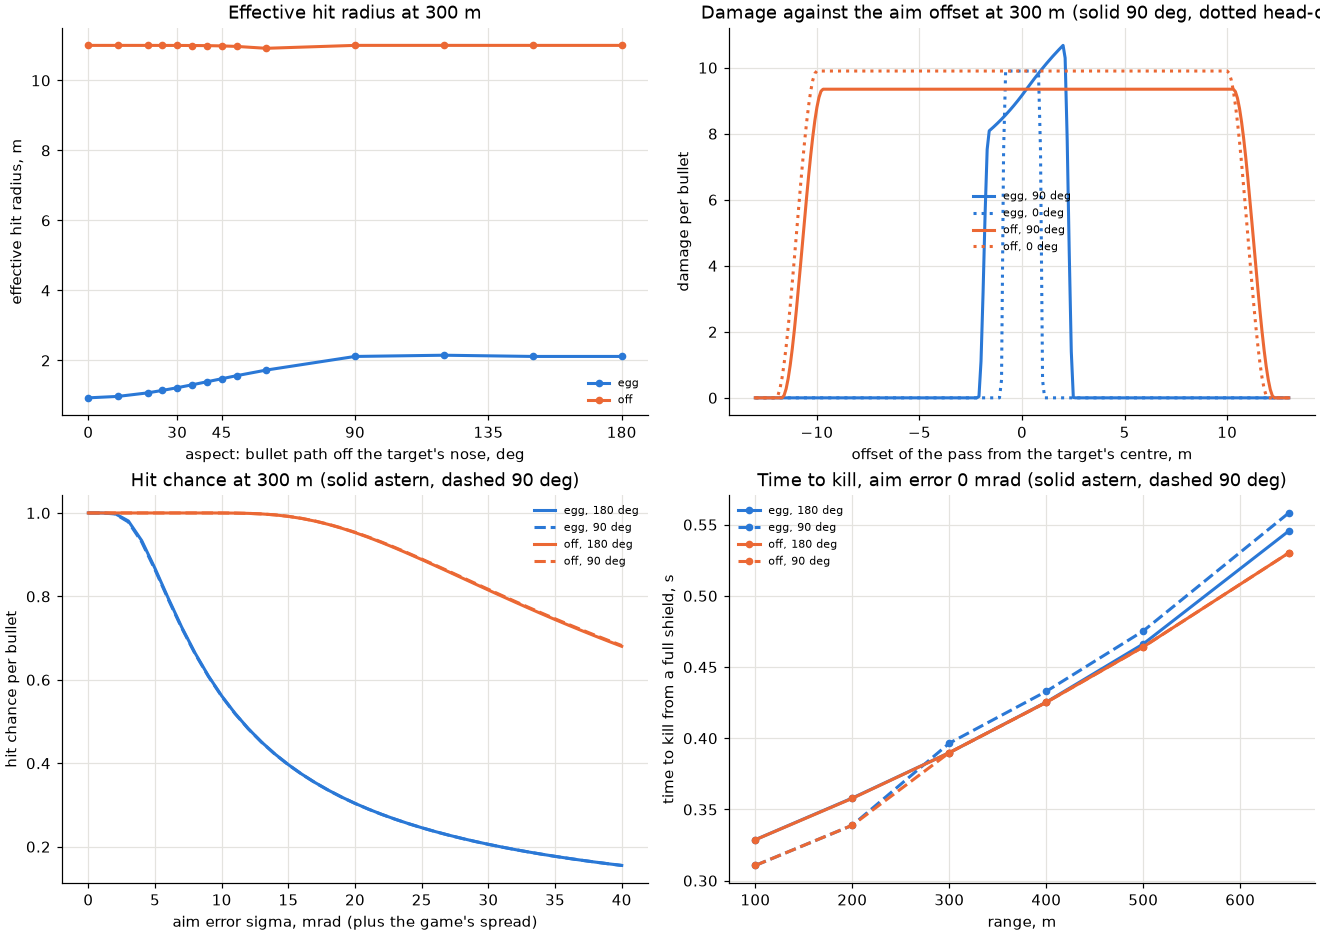
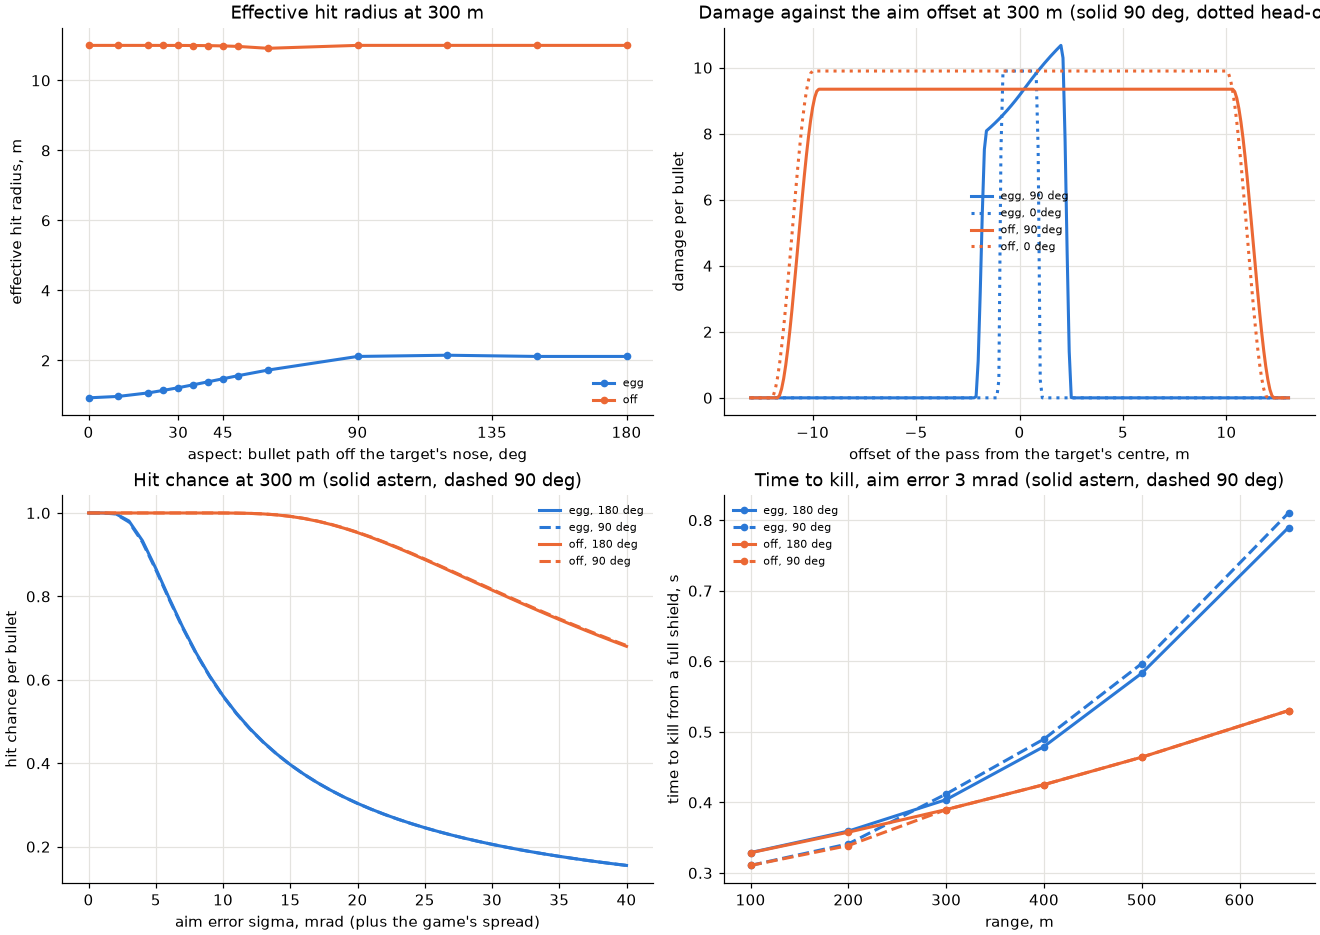
Deflector: time to kill under the egg by hit damage x spread x range x aspect (workbench), the author's band check; hitbench refreshed

diff --git a/docs/rewrite/sections/bullet-deflector/egg_ttk.py b/docs/rewrite/sections/bullet-deflector/egg_ttk.py
@@ -1,0 +1,86 @@
+"""Time to kill under the egg by spread, range and aspect, from the workbench (lean.tool.hitbench:
+the game's step on synthetic bullets), for a few hit damages; and which (hit damage, spread)
+pairs land in the author's band (2026-11-27: about 0.4 s the floor with perfect aim, every
+shot hitting close; about 1.0 s the upper limit of a well-aimed burst where only dispersion and
+distance cost hits).
+
+    PYTHONPATH=. uv run --no-sync python docs/rewrite/sections/bullet-deflector/egg_ttk.py OUT.md
+"""
+
+import sys
+
+import torch
+
+from lean.game import core
+from lean.tool import hitbench
+
+SPREADS_MRAD = (None, 5.0, 10.0, 20.0)  # None: today's
+DAMAGES = (7.0, 8.5, 10.5, 14.0)
+SIGMAS_MRAD = (0.0, 3.0)  # the shooter's own aim error on top of the spread
+ASPECTS = (180, 90, 0)
+
+
+def main():
+    torch.set_num_threads(8)
+    launch = float(
+        torch.as_tensor(core.ship_card(core.GameConfig())["bullet_launch_speed"]).flatten()[0]
+    )
+    lines = [
+        "Time to kill from a full shield, seconds (workbench: shield / expected damage per "
+        "bullet + 1 / hit chance, at the fire rate; no recharge). Rows: hit damage, spread, "
+        "aim error; columns: range x aspect (astern / 90 deg / head-on).",
+        "",
+    ]
+    header = (
+        "| deflector | hit damage | spread, mrad (m/s) | aim error, mrad | "
+        + " | ".join(f"{r:.0f} m {a}" for r in hitbench.RANGES for a in ASPECTS)
+        + " |"
+    )
+    lines += [header, "|---" * (4 + len(hitbench.RANGES) * len(ASPECTS)) + "|"]
+    band = []
+    for preset in ("egg", "off"):
+        for damage in DAMAGES:
+            for mrad in SPREADS_MRAD:
+                spread = None if mrad is None else mrad * 1e-3 * launch
+                overrides = {"hit_damage": damage}
+                if spread is not None:
+                    overrides["bullet_spread"] = spread
+                bench = hitbench.measure(preset, overrides)
+                shown = 1e3 * bench.inputs["bullet_spread"] / bench.launch_speed
+                for sigma in SIGMAS_MRAD:
+                    kill = hitbench.time_to_kill(bench, sigma)
+                    cells = []
+                    for r in range(len(hitbench.RANGES)):
+                        for a in ASPECTS:
+                            value = float(kill[hitbench.ASPECTS_DEG.index(a), r])
+                            cells.append("never" if value == float("inf") else f"{value:.2f}")
+                    lines.append(
+                        f"| {preset} | {damage:g} | {shown:.1f} "
+                        f"({bench.inputs['bullet_spread']:.1f}) "
+                        f"| {sigma:g} | " + " | ".join(cells) + " |"
+                    )
+                    if preset == "egg" and sigma == 0.0:
+                        astern = kill[hitbench.ASPECTS_DEG.index(180)]
+                        close, far = float(astern[0]), float(astern[-2])  # 100 m and 500 m
+                        band.append((damage, shown, close, far))
+                print(lines[-1], flush=True)
+    lines += [
+        "",
+        "Band check (egg, perfect aim, astern): the 100 m time near the 0.4 s floor (0.35 to "
+        "0.5 s) and the 500 m time at most about 1.0 s (1.05 s).",
+        "",
+        "| hit damage | spread, mrad | TTK 100 m, s | TTK 500 m, s | in band |",
+        "|---|---|---|---|---|",
+    ]
+    for damage, shown, close, far in band:
+        ok = 0.35 <= close <= 0.5 and far <= 1.05
+        lines.append(
+            f"| {damage:g} | {shown:.1f} | {close:.2f} | {far:.2f} | {'yes' if ok else 'no'} |"
+        )
+    text = "\n".join(lines) + "\n"
+    print(text)
+    open(sys.argv[1], "w").write(text)
+
+
+if __name__ == "__main__":
+    main()

diff --git a/docs/rewrite/sections/bullet-deflector/workbench/egg_ttk.md b/docs/rewrite/sections/bullet-deflector/workbench/egg_ttk.md
@@ -1,0 +1,89 @@
+Time to kill from a full shield, seconds (workbench: shield / expected damage per bullet + 1 / hit chance, at the fire rate; no recharge). Rows: hit damage, spread, aim error; columns: range x aspect (astern / 90 deg / head-on).
+
+| deflector | hit damage | spread, mrad (m/s) | aim error, mrad | 100 m 180 | 100 m 90 | 100 m 0 | 200 m 180 | 200 m 90 | 200 m 0 | 300 m 180 | 300 m 90 | 300 m 0 | 400 m 180 | 400 m 90 | 400 m 0 | 500 m 180 | 500 m 90 | 500 m 0 | 650 m 180 | 650 m 90 | 650 m 0 |
+|---|---|---|---|---|---|---|---|---|---|---|---|---|---|---|---|---|---|---|---|---|---|
+| egg | 7 | 1.5 (3.1) | 0 | 0.48 | 0.45 | 0.45 | 0.52 | 0.49 | 0.49 | 0.57 | 0.58 | 0.56 | 0.62 | 0.63 | 0.67 | 0.68 | 0.70 | 0.82 | 0.80 | 0.82 | 1.14 |
+| egg | 7 | 1.5 (3.1) | 3 | 0.48 | 0.45 | 0.45 | 0.52 | 0.50 | 0.59 | 0.59 | 0.60 | 0.83 | 0.70 | 0.72 | 1.14 | 0.85 | 0.88 | 1.53 | 1.16 | 1.19 | 2.29 |
+| egg | 7 | 5.0 (10.4) | 0 | 0.48 | 0.45 | 0.48 | 0.54 | 0.52 | 0.75 | 0.67 | 0.69 | 1.15 | 0.87 | 0.89 | 1.64 | 1.13 | 1.15 | 2.22 | 1.60 | 1.64 | 3.36 |
+| egg | 7 | 5.0 (10.4) | 3 | 0.48 | 0.45 | 0.50 | 0.56 | 0.54 | 0.85 | 0.73 | 0.75 | 1.32 | 0.97 | 1.00 | 1.89 | 1.27 | 1.30 | 2.58 | 1.83 | 1.88 | 3.91 |
+| egg | 7 | 10.0 (20.8) | 0 | 0.50 | 0.47 | 0.69 | 0.74 | 0.71 | 1.36 | 1.09 | 1.11 | 2.19 | 1.54 | 1.57 | 3.19 | 2.07 | 2.11 | 4.37 | 3.04 | 3.12 | 6.66 |
+| egg | 7 | 10.0 (20.8) | 3 | 0.50 | 0.47 | 0.71 | 0.76 | 0.73 | 1.42 | 1.13 | 1.15 | 2.29 | 1.60 | 1.63 | 3.32 | 2.15 | 2.20 | 4.56 | 3.17 | 3.25 | 6.95 |
+| egg | 7 | 20.0 (41.7) | 0 | 0.67 | 0.64 | 1.24 | 1.30 | 1.25 | 2.65 | 2.05 | 2.09 | 4.34 | 2.97 | 3.03 | 6.33 | 4.04 | 4.13 | 8.70 | 6.00 | 6.15 | 13.28 |
+| egg | 7 | 20.0 (41.7) | 3 | 0.68 | 0.64 | 1.26 | 1.31 | 1.27 | 2.68 | 2.07 | 2.11 | 4.38 | 3.00 | 3.06 | 6.40 | 4.08 | 4.17 | 8.79 | 6.07 | 6.22 | 13.43 |
+| egg | 8.5 | 1.5 (3.1) | 0 | 0.40 | 0.38 | 0.38 | 0.43 | 0.41 | 0.41 | 0.47 | 0.48 | 0.47 | 0.52 | 0.53 | 0.56 | 0.57 | 0.58 | 0.68 | 0.67 | 0.68 | 0.94 |
+| egg | 8.5 | 1.5 (3.1) | 3 | 0.40 | 0.38 | 0.38 | 0.44 | 0.41 | 0.49 | 0.49 | 0.50 | 0.69 | 0.58 | 0.60 | 0.95 | 0.71 | 0.73 | 1.27 | 0.96 | 0.99 | 1.90 |
+| egg | 8.5 | 5.0 (10.4) | 0 | 0.40 | 0.38 | 0.40 | 0.45 | 0.43 | 0.63 | 0.56 | 0.57 | 0.96 | 0.73 | 0.74 | 1.36 | 0.94 | 0.96 | 1.85 | 1.33 | 1.36 | 2.79 |
+| egg | 8.5 | 5.0 (10.4) | 3 | 0.40 | 0.38 | 0.42 | 0.47 | 0.45 | 0.71 | 0.61 | 0.62 | 1.10 | 0.81 | 0.83 | 1.57 | 1.06 | 1.08 | 2.14 | 1.52 | 1.56 | 3.25 |
+| egg | 8.5 | 10.0 (20.8) | 0 | 0.41 | 0.39 | 0.58 | 0.62 | 0.59 | 1.14 | 0.91 | 0.93 | 1.83 | 1.28 | 1.30 | 2.65 | 1.72 | 1.76 | 3.63 | 2.53 | 2.59 | 5.53 |
+| egg | 8.5 | 10.0 (20.8) | 3 | 0.42 | 0.40 | 0.60 | 0.63 | 0.61 | 1.18 | 0.94 | 0.96 | 1.91 | 1.33 | 1.36 | 2.77 | 1.79 | 1.83 | 3.79 | 2.63 | 2.70 | 5.77 |
+| egg | 8.5 | 20.0 (41.7) | 0 | 0.56 | 0.53 | 1.04 | 1.08 | 1.05 | 2.21 | 1.71 | 1.74 | 3.61 | 2.47 | 2.52 | 5.27 | 3.36 | 3.43 | 7.23 | 4.98 | 5.11 | 11.03 |
+| egg | 8.5 | 20.0 (41.7) | 3 | 0.57 | 0.54 | 1.05 | 1.09 | 1.06 | 2.24 | 1.73 | 1.76 | 3.65 | 2.49 | 2.55 | 5.33 | 3.40 | 3.47 | 7.31 | 5.04 | 5.17 | 11.15 |
+| egg | 10.5 | 1.5 (3.1) | 0 | 0.33 | 0.31 | 0.31 | 0.36 | 0.34 | 0.34 | 0.39 | 0.40 | 0.38 | 0.43 | 0.43 | 0.46 | 0.47 | 0.48 | 0.56 | 0.55 | 0.56 | 0.77 |
+| egg | 10.5 | 1.5 (3.1) | 3 | 0.33 | 0.31 | 0.31 | 0.36 | 0.34 | 0.40 | 0.40 | 0.41 | 0.57 | 0.48 | 0.49 | 0.78 | 0.58 | 0.60 | 1.04 | 0.79 | 0.81 | 1.56 |
+| egg | 10.5 | 5.0 (10.4) | 0 | 0.33 | 0.31 | 0.33 | 0.37 | 0.36 | 0.52 | 0.46 | 0.47 | 0.79 | 0.60 | 0.61 | 1.12 | 0.77 | 0.78 | 1.52 | 1.09 | 1.12 | 2.29 |
+| egg | 10.5 | 5.0 (10.4) | 3 | 0.33 | 0.31 | 0.35 | 0.39 | 0.37 | 0.58 | 0.50 | 0.51 | 0.90 | 0.67 | 0.68 | 1.29 | 0.87 | 0.89 | 1.76 | 1.25 | 1.28 | 2.66 |
+| egg | 10.5 | 10.0 (20.8) | 0 | 0.34 | 0.32 | 0.48 | 0.51 | 0.49 | 0.94 | 0.75 | 0.76 | 1.50 | 1.05 | 1.07 | 2.18 | 1.41 | 1.44 | 2.98 | 2.07 | 2.12 | 4.52 |
+| egg | 10.5 | 10.0 (20.8) | 3 | 0.34 | 0.33 | 0.49 | 0.52 | 0.50 | 0.97 | 0.77 | 0.79 | 1.57 | 1.09 | 1.11 | 2.27 | 1.47 | 1.50 | 3.11 | 2.15 | 2.21 | 4.72 |
+| egg | 10.5 | 20.0 (41.7) | 0 | 0.46 | 0.44 | 0.86 | 0.89 | 0.86 | 1.82 | 1.40 | 1.43 | 2.97 | 2.02 | 2.07 | 4.33 | 2.75 | 2.81 | 5.93 | 4.08 | 4.18 | 9.03 |
+| egg | 10.5 | 20.0 (41.7) | 3 | 0.47 | 0.44 | 0.87 | 0.90 | 0.87 | 1.84 | 1.42 | 1.45 | 3.00 | 2.05 | 2.09 | 4.37 | 2.78 | 2.84 | 6.00 | 4.12 | 4.23 | 9.13 |
+| egg | 14 | 1.5 (3.1) | 0 | 0.25 | 0.24 | 0.24 | 0.28 | 0.26 | 0.26 | 0.30 | 0.31 | 0.30 | 0.33 | 0.33 | 0.35 | 0.36 | 0.36 | 0.43 | 0.42 | 0.43 | 0.59 |
+| egg | 14 | 1.5 (3.1) | 3 | 0.26 | 0.24 | 0.24 | 0.28 | 0.26 | 0.31 | 0.31 | 0.32 | 0.44 | 0.37 | 0.38 | 0.60 | 0.45 | 0.46 | 0.80 | 0.60 | 0.62 | 1.19 |
+| egg | 14 | 5.0 (10.4) | 0 | 0.26 | 0.24 | 0.26 | 0.29 | 0.28 | 0.40 | 0.36 | 0.36 | 0.61 | 0.46 | 0.47 | 0.86 | 0.59 | 0.60 | 1.16 | 0.83 | 0.85 | 1.75 |
+| egg | 14 | 5.0 (10.4) | 3 | 0.26 | 0.24 | 0.27 | 0.30 | 0.29 | 0.45 | 0.39 | 0.39 | 0.70 | 0.51 | 0.52 | 0.99 | 0.67 | 0.68 | 1.35 | 0.95 | 0.98 | 2.03 |
+| egg | 14 | 10.0 (20.8) | 0 | 0.26 | 0.25 | 0.37 | 0.39 | 0.38 | 0.72 | 0.57 | 0.59 | 1.16 | 0.81 | 0.82 | 1.67 | 1.08 | 1.10 | 2.28 | 1.58 | 1.62 | 3.46 |
+| egg | 14 | 10.0 (20.8) | 3 | 0.27 | 0.25 | 0.38 | 0.40 | 0.39 | 0.75 | 0.60 | 0.61 | 1.21 | 0.84 | 0.85 | 1.75 | 1.12 | 1.15 | 2.38 | 1.65 | 1.69 | 3.61 |
+| egg | 14 | 20.0 (41.7) | 0 | 0.36 | 0.34 | 0.66 | 0.69 | 0.66 | 1.41 | 1.08 | 1.10 | 2.29 | 1.55 | 1.59 | 3.32 | 2.11 | 2.15 | 4.55 | 3.12 | 3.20 | 6.90 |
+| egg | 14 | 20.0 (41.7) | 3 | 0.36 | 0.34 | 0.67 | 0.69 | 0.67 | 1.42 | 1.09 | 1.11 | 2.31 | 1.57 | 1.60 | 3.36 | 2.13 | 2.18 | 4.60 | 3.15 | 3.23 | 6.98 |
+| off | 7 | 1.5 (3.1) | 0 | 0.48 | 0.45 | 0.45 | 0.52 | 0.49 | 0.49 | 0.57 | 0.57 | 0.54 | 0.62 | 0.62 | 0.59 | 0.68 | 0.68 | 0.65 | 0.78 | 0.78 | 0.74 |
+| off | 7 | 1.5 (3.1) | 3 | 0.48 | 0.45 | 0.45 | 0.52 | 0.49 | 0.49 | 0.57 | 0.57 | 0.54 | 0.62 | 0.62 | 0.59 | 0.68 | 0.68 | 0.65 | 0.78 | 0.78 | 0.75 |
+| off | 7 | 5.0 (10.4) | 0 | 0.48 | 0.45 | 0.45 | 0.52 | 0.49 | 0.49 | 0.57 | 0.57 | 0.54 | 0.62 | 0.62 | 0.59 | 0.68 | 0.68 | 0.65 | 0.78 | 0.78 | 0.75 |
+| off | 7 | 5.0 (10.4) | 3 | 0.48 | 0.45 | 0.45 | 0.52 | 0.49 | 0.49 | 0.57 | 0.57 | 0.54 | 0.62 | 0.62 | 0.59 | 0.68 | 0.68 | 0.65 | 0.78 | 0.78 | 0.76 |
+| off | 7 | 10.0 (20.8) | 0 | 0.48 | 0.45 | 0.45 | 0.52 | 0.49 | 0.49 | 0.57 | 0.57 | 0.54 | 0.62 | 0.63 | 0.59 | 0.70 | 0.70 | 0.67 | 0.86 | 0.86 | 0.84 |
+| off | 7 | 10.0 (20.8) | 3 | 0.48 | 0.45 | 0.45 | 0.52 | 0.49 | 0.49 | 0.57 | 0.57 | 0.54 | 0.63 | 0.63 | 0.60 | 0.70 | 0.70 | 0.67 | 0.87 | 0.87 | 0.85 |
+| off | 7 | 20.0 (41.7) | 0 | 0.48 | 0.45 | 0.45 | 0.52 | 0.50 | 0.49 | 0.61 | 0.61 | 0.58 | 0.75 | 0.75 | 0.71 | 0.93 | 0.93 | 0.89 | 1.29 | 1.29 | 1.27 |
+| off | 7 | 20.0 (41.7) | 3 | 0.48 | 0.45 | 0.45 | 0.52 | 0.50 | 0.49 | 0.61 | 0.61 | 0.58 | 0.75 | 0.75 | 0.71 | 0.94 | 0.94 | 0.90 | 1.30 | 1.30 | 1.28 |
+| off | 8.5 | 1.5 (3.1) | 0 | 0.40 | 0.38 | 0.38 | 0.43 | 0.41 | 0.41 | 0.47 | 0.47 | 0.45 | 0.52 | 0.52 | 0.49 | 0.57 | 0.57 | 0.54 | 0.65 | 0.65 | 0.62 |
+| off | 8.5 | 1.5 (3.1) | 3 | 0.40 | 0.38 | 0.38 | 0.43 | 0.41 | 0.41 | 0.47 | 0.47 | 0.45 | 0.52 | 0.52 | 0.49 | 0.57 | 0.57 | 0.54 | 0.65 | 0.65 | 0.62 |
+| off | 8.5 | 5.0 (10.4) | 0 | 0.40 | 0.38 | 0.38 | 0.43 | 0.41 | 0.41 | 0.47 | 0.47 | 0.45 | 0.52 | 0.52 | 0.49 | 0.57 | 0.57 | 0.54 | 0.65 | 0.65 | 0.63 |
+| off | 8.5 | 5.0 (10.4) | 3 | 0.40 | 0.38 | 0.38 | 0.43 | 0.41 | 0.41 | 0.47 | 0.47 | 0.45 | 0.52 | 0.52 | 0.49 | 0.57 | 0.57 | 0.54 | 0.65 | 0.65 | 0.63 |
+| off | 8.5 | 10.0 (20.8) | 0 | 0.40 | 0.38 | 0.38 | 0.43 | 0.41 | 0.41 | 0.47 | 0.47 | 0.45 | 0.52 | 0.52 | 0.49 | 0.58 | 0.58 | 0.55 | 0.71 | 0.71 | 0.70 |
+| off | 8.5 | 10.0 (20.8) | 3 | 0.40 | 0.38 | 0.38 | 0.43 | 0.41 | 0.41 | 0.47 | 0.47 | 0.45 | 0.52 | 0.52 | 0.50 | 0.59 | 0.59 | 0.56 | 0.72 | 0.72 | 0.71 |
+| off | 8.5 | 20.0 (41.7) | 0 | 0.40 | 0.38 | 0.38 | 0.44 | 0.42 | 0.41 | 0.51 | 0.51 | 0.48 | 0.62 | 0.62 | 0.59 | 0.77 | 0.77 | 0.74 | 1.07 | 1.07 | 1.05 |
+| off | 8.5 | 20.0 (41.7) | 3 | 0.40 | 0.38 | 0.38 | 0.44 | 0.42 | 0.41 | 0.51 | 0.51 | 0.48 | 0.63 | 0.63 | 0.59 | 0.78 | 0.78 | 0.75 | 1.08 | 1.08 | 1.06 |
+| off | 10.5 | 1.5 (3.1) | 0 | 0.33 | 0.31 | 0.31 | 0.36 | 0.34 | 0.34 | 0.39 | 0.39 | 0.37 | 0.43 | 0.43 | 0.40 | 0.46 | 0.46 | 0.44 | 0.53 | 0.53 | 0.51 |
+| off | 10.5 | 1.5 (3.1) | 3 | 0.33 | 0.31 | 0.31 | 0.36 | 0.34 | 0.34 | 0.39 | 0.39 | 0.37 | 0.43 | 0.43 | 0.40 | 0.46 | 0.46 | 0.44 | 0.53 | 0.53 | 0.51 |
+| off | 10.5 | 5.0 (10.4) | 0 | 0.33 | 0.31 | 0.31 | 0.36 | 0.34 | 0.34 | 0.39 | 0.39 | 0.37 | 0.43 | 0.43 | 0.40 | 0.46 | 0.46 | 0.44 | 0.53 | 0.53 | 0.51 |
+| off | 10.5 | 5.0 (10.4) | 3 | 0.33 | 0.31 | 0.31 | 0.36 | 0.34 | 0.34 | 0.39 | 0.39 | 0.37 | 0.43 | 0.43 | 0.40 | 0.46 | 0.46 | 0.44 | 0.53 | 0.53 | 0.52 |
+| off | 10.5 | 10.0 (20.8) | 0 | 0.33 | 0.31 | 0.31 | 0.36 | 0.34 | 0.34 | 0.39 | 0.39 | 0.37 | 0.43 | 0.43 | 0.41 | 0.48 | 0.48 | 0.46 | 0.58 | 0.58 | 0.57 |
+| off | 10.5 | 10.0 (20.8) | 3 | 0.33 | 0.31 | 0.31 | 0.36 | 0.34 | 0.34 | 0.39 | 0.39 | 0.37 | 0.43 | 0.43 | 0.41 | 0.48 | 0.48 | 0.46 | 0.59 | 0.59 | 0.58 |
+| off | 10.5 | 20.0 (41.7) | 0 | 0.33 | 0.31 | 0.31 | 0.36 | 0.34 | 0.34 | 0.42 | 0.42 | 0.40 | 0.51 | 0.51 | 0.49 | 0.64 | 0.64 | 0.61 | 0.88 | 0.88 | 0.86 |
+| off | 10.5 | 20.0 (41.7) | 3 | 0.33 | 0.31 | 0.31 | 0.36 | 0.34 | 0.34 | 0.42 | 0.42 | 0.40 | 0.51 | 0.51 | 0.49 | 0.64 | 0.64 | 0.61 | 0.88 | 0.88 | 0.87 |
+| off | 14 | 1.5 (3.1) | 0 | 0.25 | 0.24 | 0.24 | 0.28 | 0.26 | 0.26 | 0.30 | 0.30 | 0.29 | 0.33 | 0.33 | 0.31 | 0.36 | 0.36 | 0.34 | 0.41 | 0.41 | 0.39 |
+| off | 14 | 1.5 (3.1) | 3 | 0.25 | 0.24 | 0.24 | 0.28 | 0.26 | 0.26 | 0.30 | 0.30 | 0.29 | 0.33 | 0.33 | 0.31 | 0.36 | 0.36 | 0.34 | 0.41 | 0.41 | 0.39 |
+| off | 14 | 5.0 (10.4) | 0 | 0.25 | 0.24 | 0.24 | 0.28 | 0.26 | 0.26 | 0.30 | 0.30 | 0.29 | 0.33 | 0.33 | 0.31 | 0.36 | 0.36 | 0.34 | 0.41 | 0.41 | 0.39 |
+| off | 14 | 5.0 (10.4) | 3 | 0.25 | 0.24 | 0.24 | 0.28 | 0.26 | 0.26 | 0.30 | 0.30 | 0.29 | 0.33 | 0.33 | 0.31 | 0.36 | 0.36 | 0.34 | 0.41 | 0.41 | 0.40 |
+| off | 14 | 10.0 (20.8) | 0 | 0.25 | 0.24 | 0.24 | 0.28 | 0.26 | 0.26 | 0.30 | 0.30 | 0.29 | 0.33 | 0.33 | 0.31 | 0.37 | 0.37 | 0.35 | 0.45 | 0.45 | 0.44 |
+| off | 14 | 10.0 (20.8) | 3 | 0.25 | 0.24 | 0.24 | 0.28 | 0.26 | 0.26 | 0.30 | 0.30 | 0.29 | 0.33 | 0.33 | 0.31 | 0.37 | 0.37 | 0.35 | 0.45 | 0.45 | 0.44 |
+| off | 14 | 20.0 (41.7) | 0 | 0.25 | 0.24 | 0.24 | 0.28 | 0.27 | 0.26 | 0.32 | 0.32 | 0.31 | 0.39 | 0.39 | 0.37 | 0.49 | 0.49 | 0.47 | 0.67 | 0.67 | 0.66 |
+| off | 14 | 20.0 (41.7) | 3 | 0.25 | 0.24 | 0.24 | 0.28 | 0.27 | 0.26 | 0.32 | 0.32 | 0.31 | 0.39 | 0.39 | 0.38 | 0.49 | 0.49 | 0.47 | 0.68 | 0.68 | 0.66 |
+
+Band check (egg, perfect aim, astern): the 100 m time near the 0.4 s floor (0.35 to 0.5 s) and the 500 m time at most about 1.0 s (1.05 s).
+
+| hit damage | spread, mrad | TTK 100 m, s | TTK 500 m, s | in band |
+|---|---|---|---|---|
+| 7 | 1.5 | 0.48 | 0.68 | yes |
+| 7 | 5.0 | 0.48 | 1.13 | no |
+| 7 | 10.0 | 0.50 | 2.07 | no |
+| 7 | 20.0 | 0.67 | 4.04 | no |
+| 8.5 | 1.5 | 0.40 | 0.57 | yes |
+| 8.5 | 5.0 | 0.40 | 0.94 | yes |
+| 8.5 | 10.0 | 0.41 | 1.72 | no |
+| 8.5 | 20.0 | 0.56 | 3.36 | no |
+| 10.5 | 1.5 | 0.33 | 0.47 | no |
+| 10.5 | 5.0 | 0.33 | 0.77 | no |
+| 10.5 | 10.0 | 0.34 | 1.41 | no |
+| 10.5 | 20.0 | 0.46 | 2.75 | no |
+| 14 | 1.5 | 0.25 | 0.36 | no |
+| 14 | 5.0 | 0.26 | 0.59 | no |
+| 14 | 10.0 | 0.26 | 1.08 | no |
+| 14 | 20.0 | 0.36 | 2.11 | no |

diff --git a/docs/rewrite/sections/bullet-deflector/workbench/hitbench.md b/docs/rewrite/sections/bullet-deflector/workbench/hitbench.md
@@ -1,23 +1,23 @@
-**egg** at 300 m, aim error 0 mrad + spread 1.48 mrad; full hit 9.35
+**egg** at 300 m, aim error 3 mrad + spread 1.48 mrad; full hit 9.35
 
 | aspect (deg off nose) | hit width, m | effective radius, m | apparent size, mrad | hit chance | damage / bullet | damage / s | time to kill, s |
 |---|---|---|---|---|---|---|---|
-| 0 | 2.1 | 0.93 | 6.2 | 0.982 | 9.534 | 286.0 | 0.38 |
-| 10 | 2.1 | 0.97 | 6.5 | 0.982 | 9.607 | 288.2 | 0.38 |
-| 20 | 2.4 | 1.07 | 7.2 | 0.993 | 9.735 | 292.0 | 0.38 |
-| 25 | 2.5 | 1.14 | 7.6 | 0.995 | 9.792 | 293.8 | 0.37 |
-| 30 | 2.7 | 1.22 | 8.1 | 0.998 | 9.832 | 295.0 | 0.37 |
-| 35 | 2.8 | 1.30 | 8.7 | 0.998 | 9.860 | 295.8 | 0.37 |
-| 40 | 3.0 | 1.39 | 9.3 | 0.999 | 9.878 | 296.3 | 0.37 |
-| 45 | 3.2 | 1.48 | 9.8 | 1.000 | 9.888 | 296.6 | 0.37 |
-| 50 | 3.5 | 1.56 | 10.4 | 1.000 | 9.893 | 296.8 | 0.37 |
-| 60 | 3.9 | 1.72 | 11.5 | 1.000 | 9.897 | 296.9 | 0.37 |
-| 90 | 4.7 | 2.11 | 14.1 | 1.000 | 9.178 | 275.3 | 0.40 |
-| 120 | 4.8 | 2.15 | 14.3 | 1.000 | 9.178 | 275.4 | 0.40 |
-| 150 | 4.7 | 2.11 | 14.1 | 1.000 | 9.348 | 280.5 | 0.39 |
-| 180 | 4.7 | 2.11 | 14.1 | 1.000 | 9.349 | 280.5 | 0.39 |
+| 0 | 2.1 | 0.93 | 6.2 | 0.705 | 6.395 | 191.8 | 0.57 |
+| 10 | 2.1 | 0.97 | 6.5 | 0.705 | 6.600 | 198.0 | 0.55 |
+| 20 | 2.4 | 1.07 | 7.2 | 0.768 | 7.069 | 212.1 | 0.51 |
+| 25 | 2.5 | 1.14 | 7.6 | 0.787 | 7.371 | 221.1 | 0.49 |
+| 30 | 2.7 | 1.22 | 8.1 | 0.822 | 7.668 | 230.1 | 0.48 |
+| 35 | 2.8 | 1.30 | 8.7 | 0.837 | 7.962 | 238.9 | 0.46 |
+| 40 | 3.0 | 1.39 | 9.3 | 0.865 | 8.237 | 247.1 | 0.44 |
+| 45 | 3.2 | 1.48 | 9.8 | 0.889 | 8.481 | 254.4 | 0.43 |
+| 50 | 3.5 | 1.56 | 10.4 | 0.917 | 8.696 | 260.9 | 0.42 |
+| 60 | 3.9 | 1.72 | 11.5 | 0.947 | 9.020 | 270.6 | 0.40 |
+| 90 | 4.7 | 2.11 | 14.1 | 0.978 | 8.819 | 264.6 | 0.41 |
+| 120 | 4.8 | 2.15 | 14.3 | 0.980 | 8.815 | 264.5 | 0.41 |
+| 150 | 4.7 | 2.11 | 14.1 | 0.975 | 8.942 | 268.2 | 0.41 |
+| 180 | 4.7 | 2.11 | 14.1 | 0.981 | 9.009 | 270.3 | 0.40 |
 
-**off** at 300 m, aim error 0 mrad + spread 1.48 mrad; full hit 9.35
+**off** at 300 m, aim error 3 mrad + spread 1.48 mrad; full hit 9.35
 
 | aspect (deg off nose) | hit width, m | effective radius, m | apparent size, mrad | hit chance | damage / bullet | damage / s | time to kill, s |
 |---|---|---|---|---|---|---|---|
